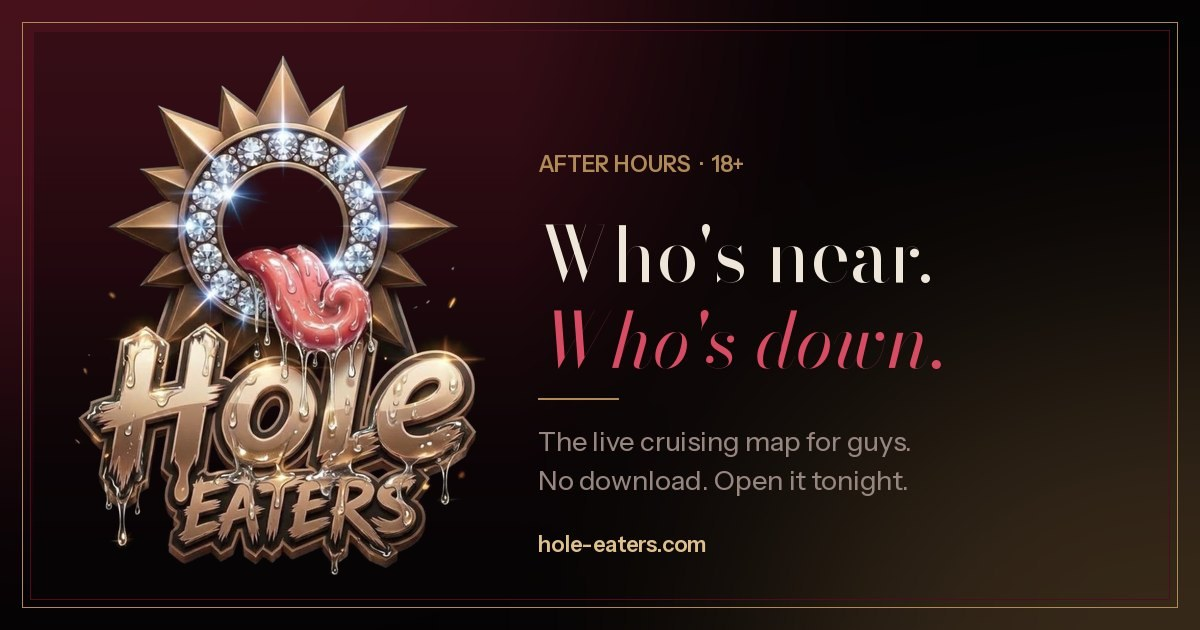
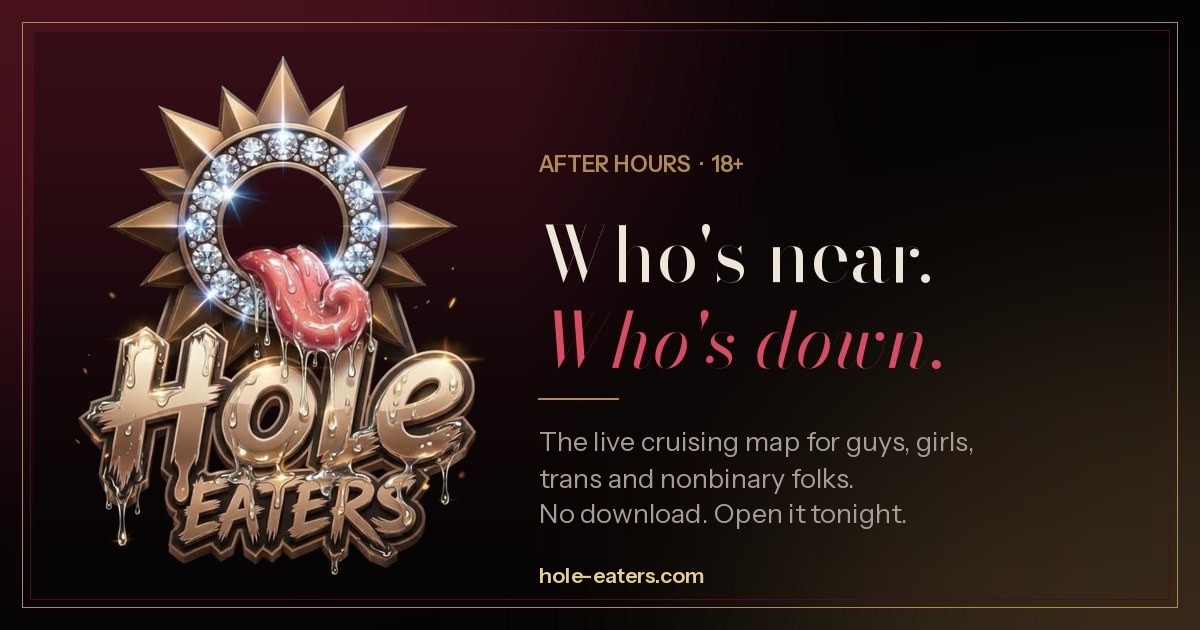
Say who Hole Eaters is for: guys, girls, trans and nonbinary folks (#23)
* Say who Hole Eaters is for: guys, girls, trans and nonbinary folks

The homepage title, share preview (OG/Twitter text and og.jpg), app meta,
web manifest, invite share text and launch-kit post copy all said "the live
cruising map for guys". They now read "the live cruising map for guys, girls,
trans and nonbinary folks", and the landing hero shows that line under the
headline.

Also neutralises copy that assumed the other person is a guy: "message
him"/"send him a tap" -> "them", Truth or Dare "his answer" -> "their", two
prompts that said "a guy", and "Invite guys nearby" -> "Invite people nearby".

og.jpg is rebuilt with the new line; meta points at og.jpg?v=2 so share
caches pick it up.

* CI: run e2e on ubuntu-24.04 (same fix as #22)

ubuntu-latest moved to 26.04, where Playwright 1.56 has no Chromium build, so
the app job has failed on main since Nov 17. Pinning matches the change in #22,
so the two merge cleanly.

---------

Changed region(s): [[0.4317, 0.6937, 0.8017, 0.8746], [0.4317, 0.9048, 0.5858, 0.9349]]

diff --git a/index.html b/index.html
@@ -8,23 +8,23 @@
     <meta name="theme-color" content="#090608" />
     <meta name="color-scheme" content="dark" />
 
-    <title>Hole Eaters — the live cruising map for guys</title>
+    <title>Hole Eaters — the live cruising map for guys, girls, trans and nonbinary folks</title>
     <meta name="description" content="See who's near and who's down, right now. Live map, Pulse Rooms, Ghost Mode. Free, 18+, works in your browser — no download." />
     <link rel="canonical" href="https://www.hole-eaters.com/" />
 
     <meta property="og:type" content="website" />
     <meta property="og:site_name" content="Hole Eaters" />
     <meta property="og:title" content="Hole Eaters — who's near, who's down" />
-    <meta property="og:description" content="The live cruising map for guys. No download. Open it tonight. 18+." />
+    <meta property="og:description" content="The live cruising map for guys, girls, trans and nonbinary folks. No download. Open it tonight. 18+." />
     <meta property="og:url" content="https://www.hole-eaters.com/" />
-    <meta property="og:image" content="https://www.hole-eaters.com/og.jpg" />
+    <meta property="og:image" content="https://www.hole-eaters.com/og.jpg?v=2" />
     <meta property="og:image:width" content="1200" />
     <meta property="og:image:height" content="630" />
     <meta property="og:image:alt" content="Hole Eaters — Who's near. Who's down." />
     <meta name="twitter:card" content="summary_large_image" />
     <meta name="twitter:title" content="Hole Eaters — who's near, who's down" />
-    <meta name="twitter:description" content="The live cruising map for guys. No download. Open it tonight. 18+." />
-    <meta name="twitter:image" content="https://www.hole-eaters.com/og.jpg" />
+    <meta name="twitter:description" content="The live cruising map for guys, girls, trans and nonbinary folks. No download. Open it tonight. 18+." />
+    <meta name="twitter:image" content="https://www.hole-eaters.com/og.jpg?v=2" />
     <meta name="rating" content="adult" />
 
     <link rel="icon" type="image/png" href="/favicon.png" />
@@ -46,7 +46,7 @@
         "browserRequirements": "Requires a modern mobile browser",
         "contentRating": "18+",
         "offers": { "@type": "Offer", "price": "0", "priceCurrency": "USD" },
-        "description": "The live cruising map for guys. See who's near and who's down, right now."
+        "description": "The live cruising map for guys, girls, trans and nonbinary folks. See who's near and who's down, right now."
       }
     </script>
   </head>
@@ -60,6 +60,7 @@
           <img class="gate__logo" src="/brand/logo.webp" alt="Hole Eaters" width="260" height="320" fetchpriority="high" />
           <p class="eyebrow reveal" style="--d: 1">After hours &middot; 18+</p>
           <h1 id="gate-title" class="gate__title reveal" style="--d: 1">Who&rsquo;s near.<br /><em>Who&rsquo;s down.</em></h1>
+          <p class="gate__for reveal" style="--d: 1">The live cruising map for guys, girls, trans and nonbinary folks.</p>
 
           <div class="gate__frame reveal" style="--d: 2">
           <form class="gate__form" style="--d: 2" id="gate-form" novalidate>

diff --git a/src/App.tsx b/src/App.tsx
@@ -384,7 +384,7 @@ function ChatScreen({ match, myId, other, onBack, myPrivacy = {} }: { match: Mat
   const noticeTimer = useRef<ReturnType<typeof setTimeout> | null>(null)
   const say = (text: string) => { setNotice(text); if (noticeTimer.current) clearTimeout(noticeTimer.current); noticeTimer.current = setTimeout(() => setNotice(null), 6000) }
   const secureError = (e: unknown, what: string) => {
-    if (e instanceof NoKeysError) say(`🔒 ${other.name} needs to open Hole Eaters once before you can message him securely.`)
+    if (e instanceof NoKeysError) say(`🔒 ${other.name} needs to open Hole Eaters once before you can message them securely.`)
     else { console.error(`[chat] ${what} failed`, e); say(`${what} didn't send. Try again.`) }
   }
   // Private chat files → short-lived links. Re-signed every 50 min while the chat stays open.
@@ -3766,7 +3766,7 @@ export default function App() {
               if (error || !data) { console.error('[tap] start failed', error); showError("Tap didn't send. Try again."); return }
               try { await sendSecure((data as Match).id, user.id, other.id, { s: url }) }
               catch (e) {
-                if (e instanceof NoKeysError) showError(`🔒 ${other.name} needs to open Hole Eaters once before you can send him a tap.`)
+                if (e instanceof NoKeysError) showError(`🔒 ${other.name} needs to open Hole Eaters once before you can send them a tap.`)
                 else { console.error('[tap] send failed', e); showError("Tap didn't send. Try again.") }
                 return
               }

diff --git a/app.html b/app.html
@@ -9,7 +9,7 @@
     <meta name="apple-mobile-web-app-title" content="Hole Eaters" />
     <meta name="theme-color" content="#090608" />
     <meta name="robots" content="noindex, nofollow, noarchive, noimageindex" />
-    <meta name="description" content="The live cruising map for guys. See who's near right now. 18+." />
+    <meta name="description" content="The live cruising map for guys, girls, trans and nonbinary folks. See who's near right now. 18+." />
 
     <link rel="canonical" href="https://www.hole-eaters.com/" />
     <link rel="icon" type="image/png" href="/favicon.png" />
@@ -19,9 +19,9 @@
     <meta property="og:type" content="website" />
     <meta property="og:site_name" content="Hole Eaters" />
     <meta property="og:title" content="Hole Eaters — who's near, who's down" />
-    <meta property="og:description" content="The live cruising map for guys. No download. Open it tonight. 18+." />
+    <meta property="og:description" content="The live cruising map for guys, girls, trans and nonbinary folks. No download. Open it tonight. 18+." />
     <meta property="og:url" content="https://www.hole-eaters.com/" />
-    <meta property="og:image" content="https://www.hole-eaters.com/og.jpg" />
+    <meta property="og:image" content="https://www.hole-eaters.com/og.jpg?v=2" />
     <meta name="twitter:card" content="summary_large_image" />
 
     <title>The Hole Eaters</title>

diff --git a/src/components/InviteBanner.tsx b/src/components/InviteBanner.tsx
@@ -24,7 +24,7 @@ export function InviteBanner({ name, theme }: { name?: string; theme: InviteThem
   const url = stats ? inviteUrl(stats.code) : 'https://www.hole-eaters.com/?utm_source=invite'
 
   const share = async () => {
-    const text = `${name ?? 'Someone'} wants you on Hole Eaters — the live cruising map for guys.`
+    const text = `${name ?? 'Someone'} wants you on Hole Eaters — the live cruising map for guys, girls, trans and nonbinary folks.`
     if (navigator.share) {
       await navigator.share({ title: 'Hole Eaters', text, url }).catch(() => {})
       return
@@ -39,7 +39,7 @@ export function InviteBanner({ name, theme }: { name?: string; theme: InviteThem
   return (
     <div style={{ background: theme.surf2, border: `1px solid ${theme.border}`, borderRadius: 16, padding: 16, margin: '0 0 16px' }}>
       <div style={{ display: 'flex', alignItems: 'baseline', justifyContent: 'space-between', marginBottom: 6 }}>
-        <div style={{ fontWeight: 700, fontSize: 14 }}>🔗 Invite guys nearby</div>
+        <div style={{ fontWeight: 700, fontSize: 14 }}>🔗 Invite people nearby</div>
         {invited > 0 && <div style={{ fontSize: 12, color: theme.accent, fontFamily: theme.font }}>{invited} joined</div>}
       </div>
       <div style={{ fontSize: 12, color: theme.dim, marginBottom: 12, lineHeight: 1.5 }}>

diff --git a/src/lib/truthOrDare.ts b/src/lib/truthOrDare.ts
@@ -19,7 +19,7 @@ const DECK: Deck = {
     truth: [
       "What made you open my profile?",
       "What's your go-to first-date move?",
-      "Best compliment you've ever gotten from a guy?",
+      "Best compliment you've ever gotten from a hookup?",
       "What song is stuck in your head right now?",
       "What's the most spontaneous thing you've done this year?",
       "What's a green flag that gets you every time?",
@@ -41,7 +41,7 @@ const DECK: Deck = {
   },
   spicy: {
     truth: [
-      "What's the first thing you notice on a guy?",
+      "What's the first thing you notice about someone?",
       "What's your biggest turn-on that most people wouldn't guess?",
       "Top, bottom or vers — and what's your favorite part of it?",
       "What's the hottest message you've ever received?",

diff --git a/src/components/TruthOrDare.tsx b/src/components/TruthOrDare.tsx
@@ -43,7 +43,7 @@ export function TodCard({ prompt, fallback, mine, onReply, theme: t }: { prompt:
       </div>
       <div style={{ fontSize: 15, fontWeight: 700, lineHeight: 1.4, color: t.text }}>{text}</div>
       <div style={{ fontSize: 11, color: t.muted, marginTop: 8 }}>
-        {mine ? 'Waiting on his answer…' : <>Your move — answer below, or <button onClick={onReply} style={{ color: t.accent, fontWeight: 700, fontSize: 11, padding: 0, textDecoration: 'underline' }}>send one back</button>.</>}
+        {mine ? 'Waiting on their answer…' : <>Your move — answer below, or <button onClick={onReply} style={{ color: t.accent, fontWeight: 700, fontSize: 11, padding: 0, textDecoration: 'underline' }}>send one back</button>.</>}
       </div>
     </div>
   )

diff --git a/src/landing/landing.css b/src/landing/landing.css
@@ -195,6 +195,7 @@ h1 em, h2 em { font-style: italic; font-weight: 500; color: var(--ember-lift); }
   -webkit-mask-image: radial-gradient(closest-side, #000 72%, transparent); mask-image: radial-gradient(closest-side, #000 72%, transparent);
 }
 .gate__title { margin: 0 0 20px; font-size: clamp(2.125rem, 10vw, 3rem); font-weight: 900; line-height: 0.94; letter-spacing: -0.02em; }
+.gate__for { margin: -8px 0 20px; max-width: 30ch; color: var(--smoke); font-size: 0.9375rem; line-height: 1.4; }
 
 .gate__frame {
   position: relative; width: 100%; padding: 22px 18px 20px; text-align: left;

diff --git a/docs/growth/launch-kit.md b/docs/growth/launch-kit.md
@@ -28,7 +28,7 @@ Post / sticker / invite ──► hole-eaters.com (OG card, ?ref + utm captured)
 
 ## Channel playbook
 
-- **City subreddits and gay subs** — check each sub's self-promo rules first; many ban it. Post as a builder asking for feedback, not an ad. One sub per day, reply to every comment within the hour.
+- **City subreddits and LGBTQ subs** — check each sub's self-promo rules first; many ban it. Post as a builder asking for feedback, not an ad. One sub per day, reply to every comment within the hour.
 - **X / Bluesky** — the sticker aesthetic is the ad. Post one sticker or screen a day, pin the OG card post, link in bio.
 - **Venue drops** — bars, saunas, parties, Pride booths. Ask the venue first; offer them a free "house" Pulse Room for the night. One QR slug per venue so you can see which ones convert.
 - **Launch zone** — concentrate every drop in one area until the map feels busy, then move. Use `waitlist_demand()` to pick the next city.
@@ -39,7 +39,7 @@ Post / sticker / invite ──► hole-eaters.com (OG card, ?ref + utm captured)
 > Built a live cruising map because the big apps feel dead. See who's actually around right now, pop-up rooms for whoever's in range, ghost mode if you just want to look. Free, no download, 18+. Roast it: hole-eaters.com
 
 **X / Bluesky**
-> Who's near. Who's down. 🗺 The live cruising map for guys — no download, open it tonight. 18+ → hole-eaters.com
+> Who's near. Who's down. 🗺 The live cruising map for guys, girls, trans and nonbinary folks — no download, open it tonight. 18+ → hole-eaters.com
 
 **Venue staff DM**
 > Hey — I run Hole Eaters, a local cruising map. Could I leave a few stickers by the bar this weekend? I'll set up a room on the map named after your spot so your crowd can find each other.
